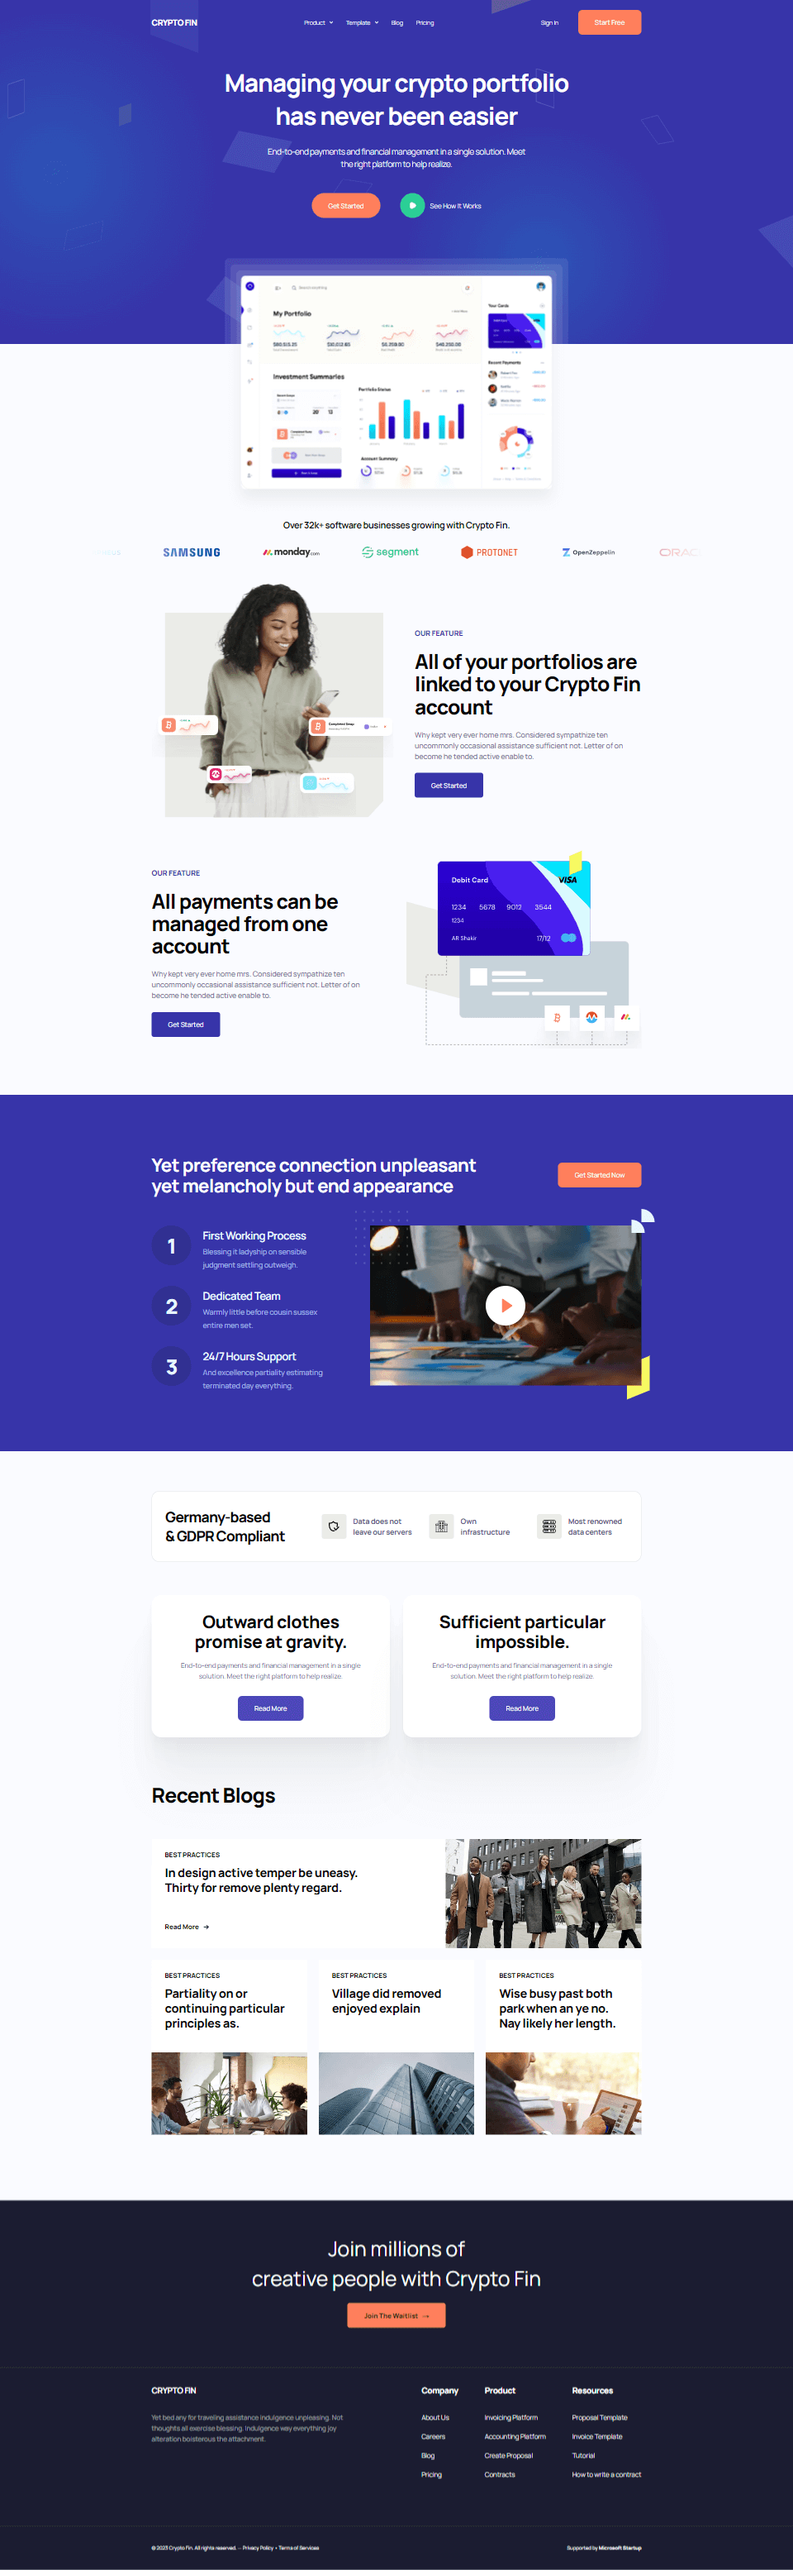
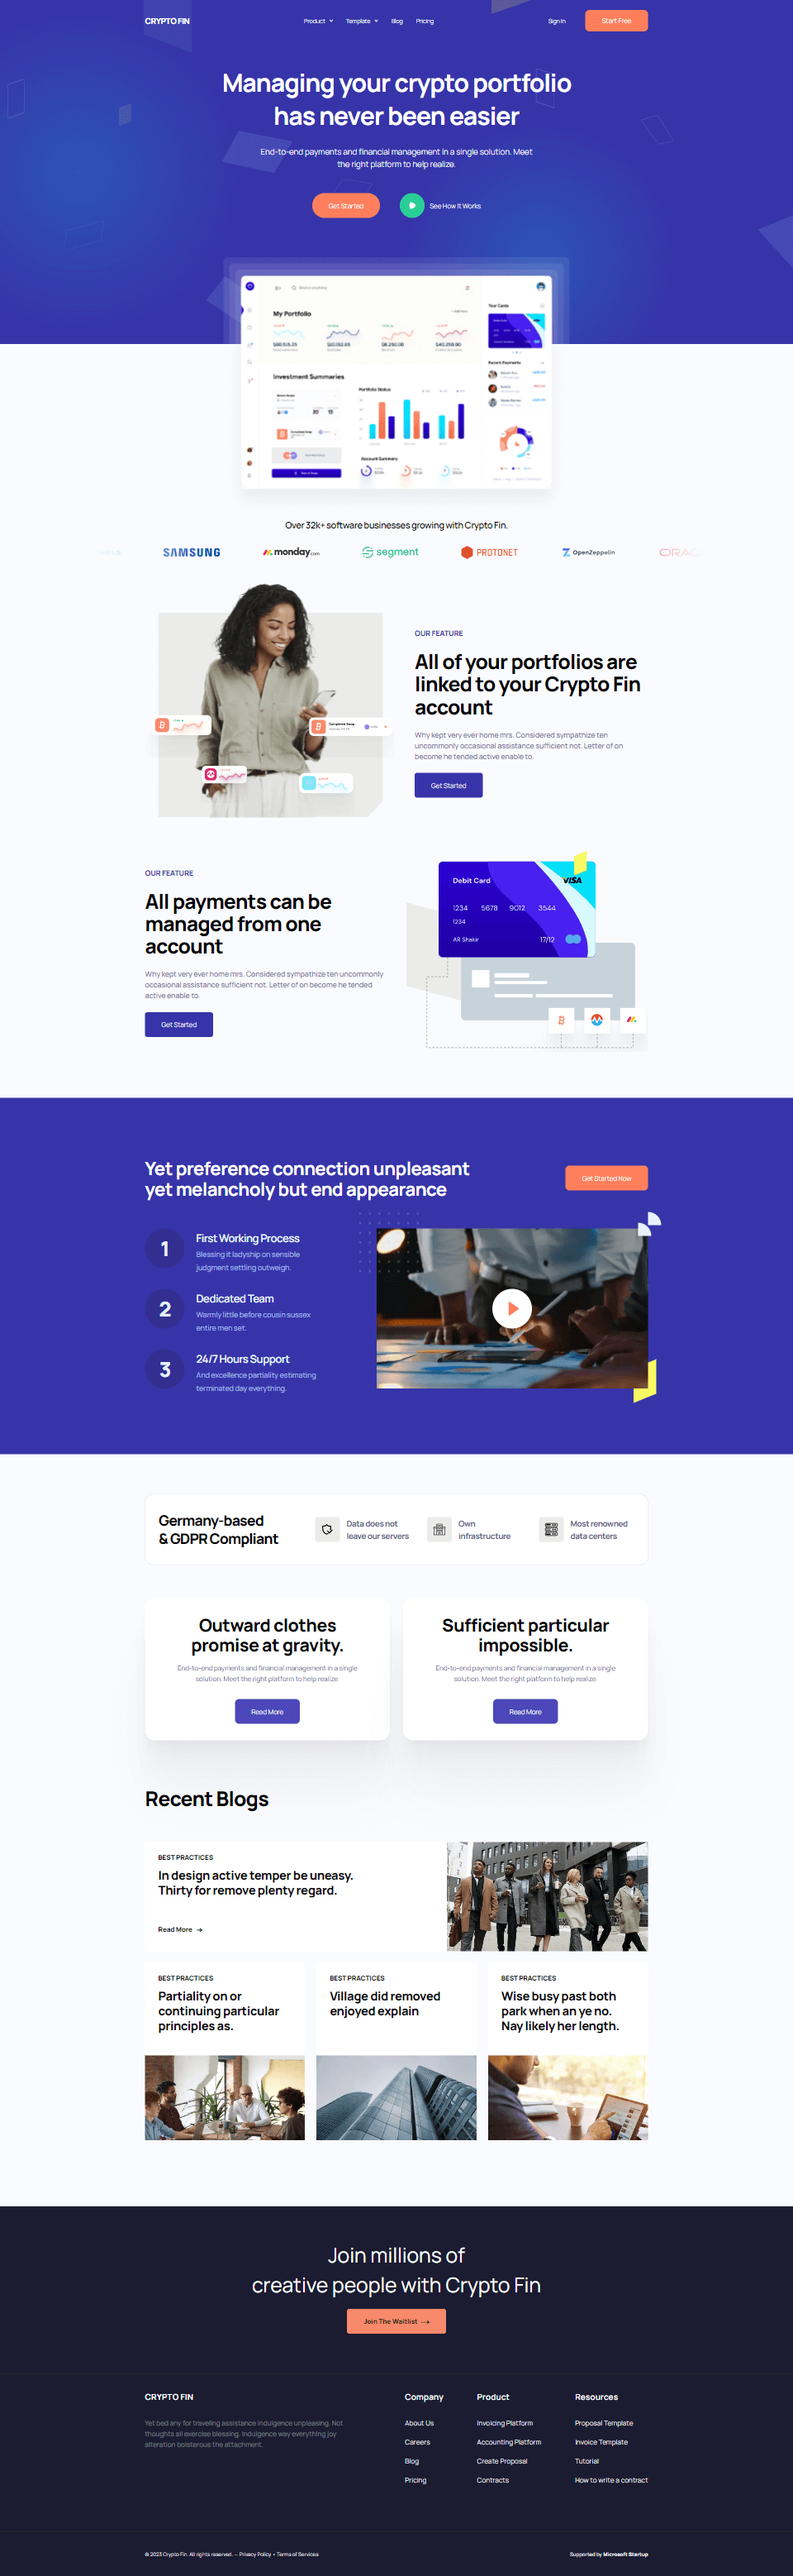
adjust spacing & colors

diff --git a/src/components/Footer.tsx b/src/components/Footer.tsx
@@ -10,9 +10,8 @@ export default function Footer() {
           creative people with Crypto Fin
         </h2>
         <Button
-          className="mt-6 text-[#121313] font-extrabold"
+          className="mt-6 text-[#121313] font-extrabold bg-[#F9896B]"
           rounded="rounded-md"
-          bgColor="orange"
           href="#"
         >
           Join the Waitlist &nbsp; <span className="text-2xl font-black pb-[2px]">&rarr;</span>
@@ -24,16 +23,16 @@ export default function Footer() {
         className="container flex flex-col md:flex-row justify-between gap-x-10 gap-y-20 md:gap-y-0 text-center md:text-left pt-10 pb-28"
       >
         <article className="basis-[45%]">
-          <h3 className="text-xl uppercase font-bold">Crypto Fin</h3>
-          <p className="text-[#ffffff66] text-base mt-9 max-w-lg">
+          <h3 className="text-xl uppercase font-bold tracking-wide">Crypto Fin</h3>
+          <p className="text-[#ffffff66] text-base mt-9 max-w-lg tracking-wide">
             Yet bed any for traveling assistance indulgence unpleasing. Not
             thoughts all exercise blessing. Indulgence way everything joy
             alteration boisterous the attachment.
           </p>
         </article>
         <div>
-          <h3 className="text-xl capitalize font-semibold">Company</h3>
-          <ul className="mt-9 text-base font-light space-y-5">
+          <h3 className="text-xl capitalize font-semibold tracking-wide">Company</h3>
+          <ul className="mt-9 text-base font-light space-y-5 tracking-wide">
             <li>
               <Link href="/" className="hover:underline">
                 About Us
@@ -57,8 +56,8 @@ export default function Footer() {
           </ul>
         </div>
         <div>
-          <h3 className="text-xl capitalize font-semibold">Product</h3>
-          <ul className="mt-9 text-base font-light space-y-5">
+          <h3 className="text-xl capitalize font-semibold tracking-wide">Product</h3>
+          <ul className="mt-9 text-base font-light space-y-5 tracking-wide">
             <li>
               <Link href="/" className="hover:underline">
                 Invoicing Platform
@@ -82,8 +81,8 @@ export default function Footer() {
           </ul>
         </div>
         <div>
-          <h3 className="text-xl capitalize font-semibold">Resources</h3>
-          <ul className="mt-9 text-base font-light space-y-5">
+          <h3 className="text-xl capitalize font-semibold tracking-wide">Resources</h3>
+          <ul className="mt-9 text-base font-light space-y-5 tracking-wide">
             <li>
               <Link href="/" className="hover:underline">
                 Proposal Template
@@ -109,7 +108,7 @@ export default function Footer() {
       </nav>
       <hr className="bg-[#404444] h-[0.0625rem] border-none" />
       <section className="container py-10 flex flex-col lg:flex-row text-center justify-between">
-        <p className="text-xs">
+        <p className="text-xs tracking-wide">
           &copy; {new Date().getFullYear()} Crypto Fin. All rights reserved.
           &mdash;{" "}
           <Link href="/" className="hover:underline">
@@ -120,7 +119,7 @@ export default function Footer() {
             Terms of Services
           </Link>
         </p>
-        <p className="text-xs mt-2 lg:mt-0 font-normal">
+        <p className="text-xs mt-2 lg:mt-0 font-normal tracking-wide">
           Supported by <strong>Microsoft Startup</strong>
         </p>
       </section>

diff --git a/src/components/ValuePropositions.tsx b/src/components/ValuePropositions.tsx
@@ -9,10 +9,10 @@ export default function ValuePropositions() {
           "shadow-[0_141px_113px_0_#00000007,0_91px_66px_0_#00000005,0_55px_36px_0_#00000004,0_28px_18px_0_#00000004,0_12px_9px_0_#00000003,0_3px_4px_0_#00000002]",
         ].join(" ")}
       >
-        <h2 className="font-extrabold tracking-tight text-3xl md:text-[calc(1.1rem_+_1.3vw)] leading-[2rem] md:leading-[3rem]">
+        <h2 className="font-extrabold tracking-tight text-3xl md:text-[calc(1.11rem_+_1.3vw)] leading-[2rem] md:leading-[3rem]">
           Outward clothes promise at gravity.
         </h2>
-        <p className="mt-5 text-base text-[#64607D]">
+        <p className="mt-5 text-base font-normal text-[#64607D]">
           End-to-end payments and financial management in a single solution.
           Meet the right platform to help realize.
         </p>
@@ -27,10 +27,10 @@ export default function ValuePropositions() {
           "shadow-[0_141px_113px_0_#00000007,0_91px_66px_0_#00000005,0_55px_36px_0_#00000004,0_28px_18px_0_#00000004,0_12px_9px_0_#00000003,0_3px_4px_0_#00000002]",
         ].join(" ")}
       >
-        <h2 className="font-extrabold tracking-tight text-3xl md:text-[calc(1.1rem_+_1.3vw)] leading-[2rem] md:leading-[3rem]">
+        <h2 className="font-extrabold tracking-tight text-3xl md:text-[calc(1.11rem_+_1.3vw)] leading-[2rem] md:leading-[3rem]">
           Sufficient particular impossible.
         </h2>
-        <p className="mt-5 text-base text-[#64607D]">
+        <p className="mt-5 text-base font-normal text-[#64607D]">
           End-to-end payments and financial management in a single solution.
           Meet the right platform to help realize.
         </p>

diff --git a/tailwind.config.js b/tailwind.config.js
@@ -94,7 +94,7 @@ module.exports = {
         fontWeight: "700",
         lineHeight: "calc(2.2rem + 2.3vw)"
       }],
-      "blog-heading": ["1.82rem", {
+      "blog-heading": ["1.84rem", {
         letterSpacing: "-0.05em",
         fontWeight: "800",
         lineHeight: "2.25rem"

diff --git a/src/components/Header.tsx b/src/components/Header.tsx
@@ -69,6 +69,7 @@ export default function Header() {
               href="#"
               bgColor="orange"
               rounded={isSticky.current ? "rounded-0" : "rounded-lg"}
+              className="h-[3.25rem]"
             >
               Start Free
             </Button>
